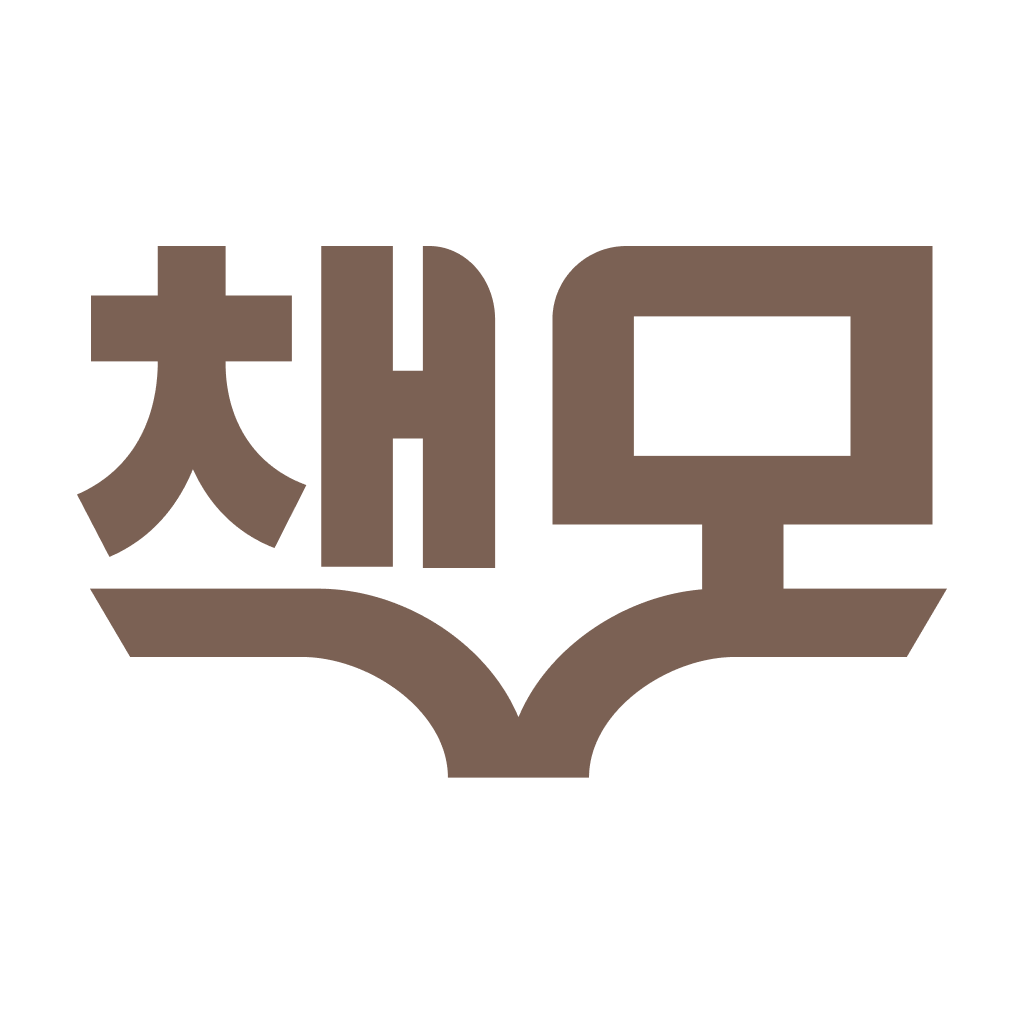
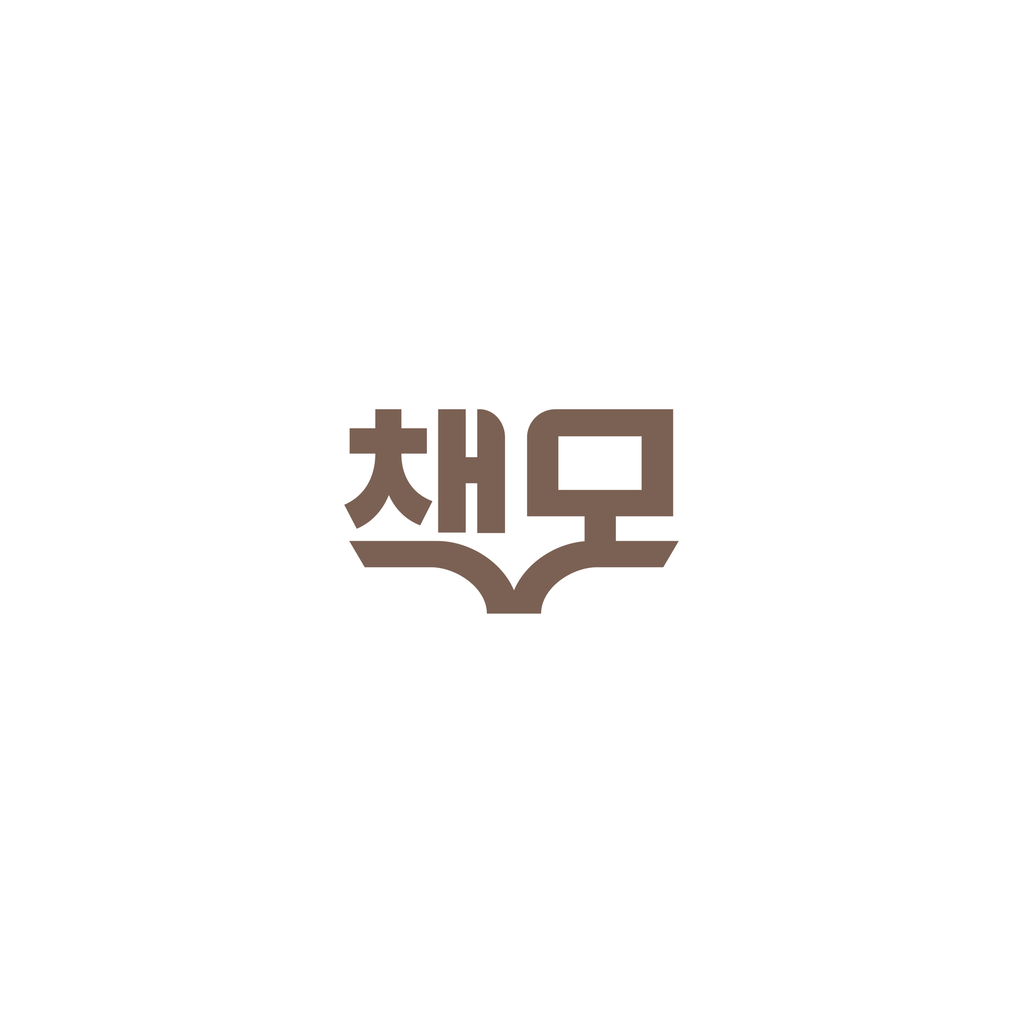
fix: Android 앱 아이콘 로고 크기 조정 (55%)
adaptive icon 원형 마스크에서 로고가 잘리는 문제 개선

Changed region(s): [[0.0625, 0.2188, 0.9375, 0.7812]]

diff --git a/docs/agent/agent-log.md b/docs/agent/agent-log.md
@@ -2278,3 +2278,9 @@ export const interactionOpacity = {
 - Android UI 대응: `edgeToEdgeEnabled` 환경에서 StatusBar `backgroundColor` → `transparent + translucent` 처리
 - 탭바 높이 고정값(84) → `84 + insets.bottom` 동적 계산으로 Android 하단 내비게이션 바 대응
 - `KeyboardAvoidingView` Android `behavior` `undefined` → `'height'` 통일 (`DialogOverlay`, `AuthFlowScreen`, `GroupManagementOverlay`)
+
+---
+
+# 2026-05-23 16:14:39 KST
+
+- Android 앱 아이콘 로고 크기 축소 (55%로 조정, adaptive icon 원형 마스크 대응)
